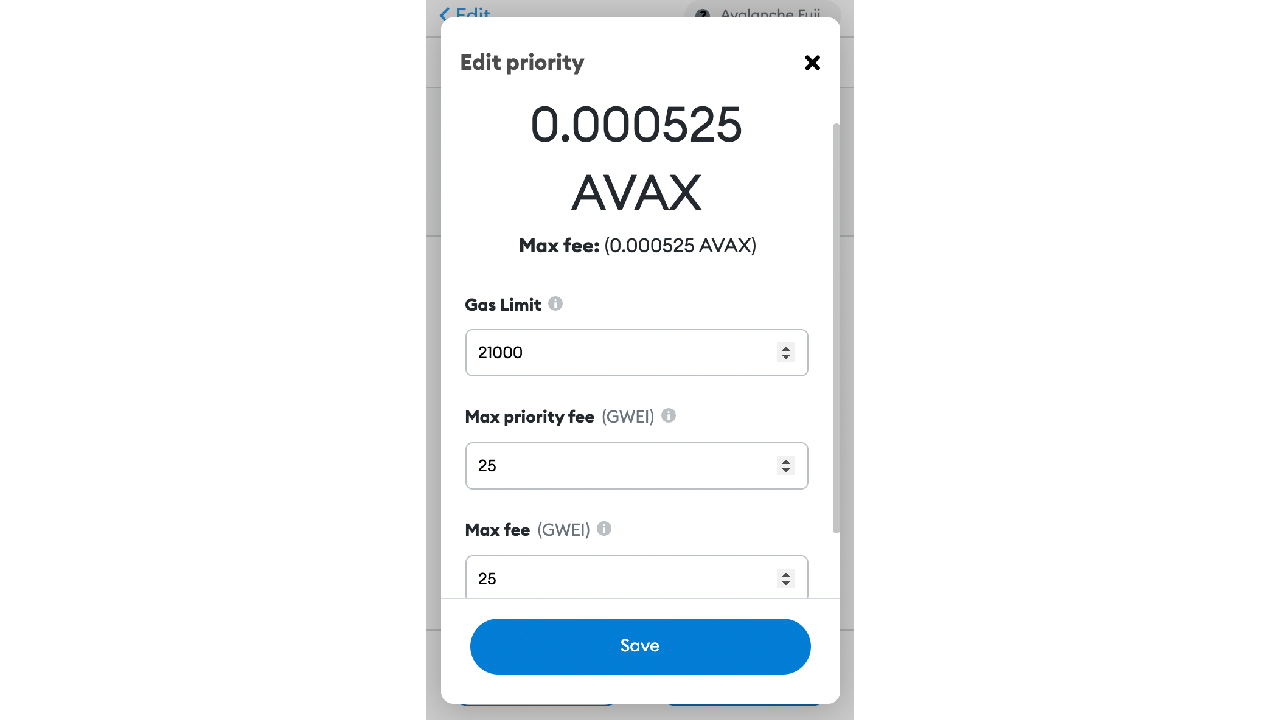
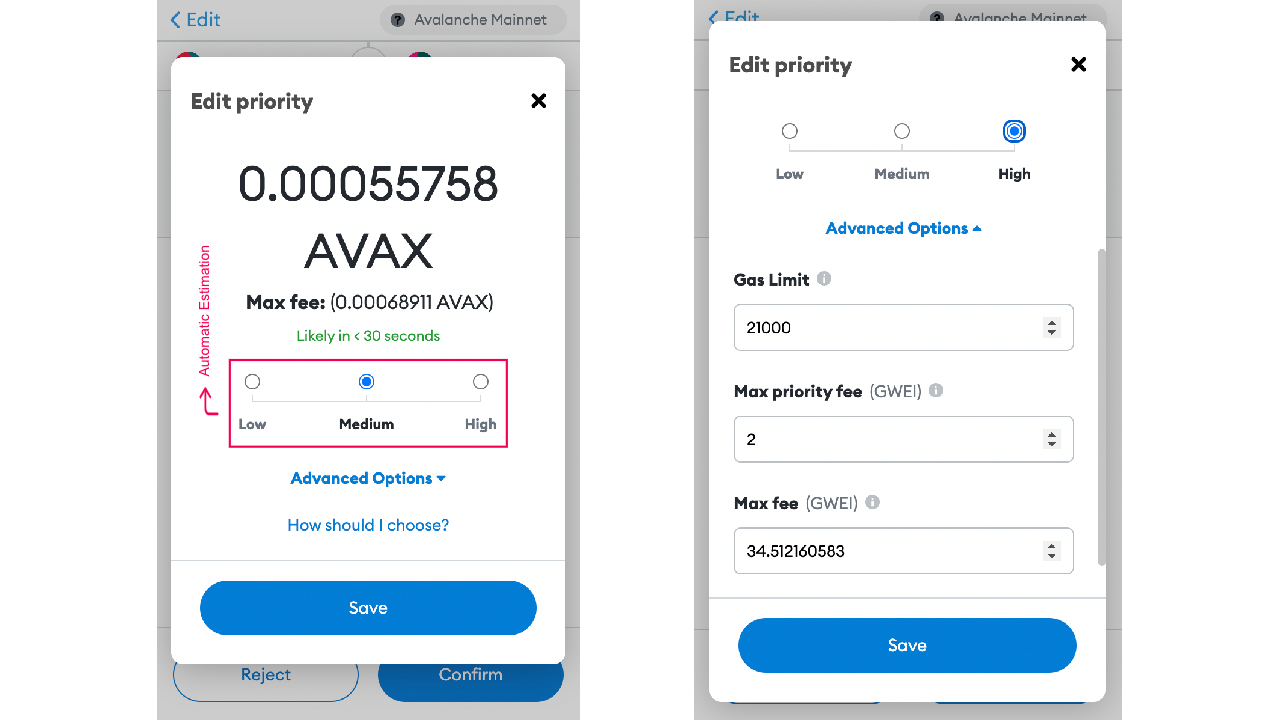
metamask graphic and other changes

Changed region(s): [[0.125, 0.0, 0.875, 1.0], [0.7812, 0.1528, 0.8125, 0.2444]]

diff --git a/docs/build/tutorials/platform/adjusting-gas-price-during-high-network-activity.md b/docs/build/tutorials/platform/adjusting-gas-price-during-high-network-activity.md
@@ -70,7 +70,7 @@ These fee adjustments can be made through wallets like MetaMask.
 
 You may not need to edit the gas fees on normal days. This is only required if there is heavy congestion on the network, and the base fees are frequently fluctuating.
 
-1. Let's create a sample transaction on Fuji testnet, in which we will be sending 0.1 AVAX to a receiver using the Metamask. By clicking **Next** we can review gas fees and the amount which we want to send.
+1. Let's create a sample transaction on Avalanche Mainnet, in which we will be sending 0.1 AVAX to a receiver using the MetaMask. By clicking **Next** we can review gas fees and the amount which we want to send.
 
 ![](/img/dynamic-fees-adjustment-1.png)
 
@@ -80,29 +80,31 @@ You may not need to edit the gas fees on normal days. This is only required if t
 ![](/img/dynamic-fees-adjustment-2.png)
 
 
-3. On this page, you can edit the priority fee (gas tip cap) and max fee (max fee cap). You can estimate the max fee as shown on [snowtrace](https://snowtrace.io/gastracker) which represents the average max fee over the last 3 seconds. For more detailed statistics, you can have a look [here](https://stats.avax.network/dashboard/c-chain-activity/).
+3. On this page, you can edit the priority fee (gas tip cap) and max fee (max fee cap) using the advanced options or you can use the MetaMask's inbuilt gas estimation. You can estimate the max fee as shown on [snowtrace](https://snowtrace.io/gastracker) which represents the average max fee over the last 3 seconds. For more detailed statistics, you can have a look [here](https://stats.avax.network/dashboard/c-chain-activity/).
 
 ![](/img/dynamic-fees-adjustment-3.png)
 
-4. If the network activity is high, you have to edit the priority and max fees accordingly, as given on snowtrace. Consider the example below, where the average max fee is 78 GWEI (nAVAX).
+4. If the network activity is high, you have to edit the priority and max fees accordingly, as given on snowtrace. Consider the example below, where the average max fee is 30 GWEI (nAVAX).
 
 ![](/img/dynamic-fees-adjustment-4.png)
 
-5. Now let's edit the max fee to 78 GWEI. This would ensure that our transaction would not fail until the base fee would exceed this amount. We can set a priority fee to anything between 0 and 78 GWEI. More the priority fee faster will be the transaction. For this example, let's set this to 50 GWEI. Save and confirm the transaction.
+5. It is recommended to set the max fee cap as the maximum price that you are willing to pay for a transaction, no matter how high or low the base fee will be, as you will only be charged the minimum of base fee and the max fee cap, along with a small priority fee above the base fee. Apart from that, MetaMask will indicate you whether you are paying extra price than required, so you should not have to worry about getting overcharged. Now let's edit the max fee to 40 GWEI. This would ensure that our transaction would not fail until the base fee would exceed this amount. We can set a priority fee to anything between 0 and 40 GWEI. More the priority fee faster will be the transaction. For this example, let's set this to 2 GWEI. However you can always rely on MetaMask's automatic estimate instead of opting for advanced options. Now, save and confirm the transaction.
 
 ![](/img/dynamic-fees-adjustment-5.png)
 
-6. After submitting the transaction, even if the base fee has decreased, you will only pay 50 GWEI above that fee as a priority fee. If this fee is one of the highest among the pending transactions, then it will be confirmed rapidly. We can see the confirmation of the transaction above.
+6. After submitting the transaction, even if the base fee has decreased, you will only pay 2 GWEI above that fee as a priority fee. If this fee is one of the highest among the pending transactions, then it will be confirmed rapidly. We can see the confirmation of the transaction below.
+
+![](/img/dynamic-fees-adjustment-6.png)
 
 | Transaction | Max Fee Cap | Gas tip cap | Base price | Effective tip | Total price |
 | ----------- | ----------- | ----------- | ---------- | ------------- | ----------- |
-| 1           | 78 GWEI     | 50 GWEI     | 25 GWEI    | 50 GWEI       | 75 GWEI     |
+| 1           | 40 GWEI     | 2 GWEI      | 25 GWEI    | 2 GWEI        | 27 GWEI     |
 
 
 ## Speeding Up the Pending Transaction
 
 If your transaction is on hold for a very long time, you can speed up through MetaMask. As shown in the below image, click on the **Speed Up** button, to edit your priority and max fee. By default, the new transaction has slightly more priority and max fee (say 10% more than the previous), but you can edit as per your convenience.
 
-![](/img/dynamic-fees-adjustment-6.png)
+![](/img/dynamic-fees-adjustment-7.png)
 
 You can look at Snowtrace's gas tracker to get an estimate about the average base fee, which is currently getting accepted. If the max fee of the network is much higher than your transaction, then set the max fee cap to match that of the network.
